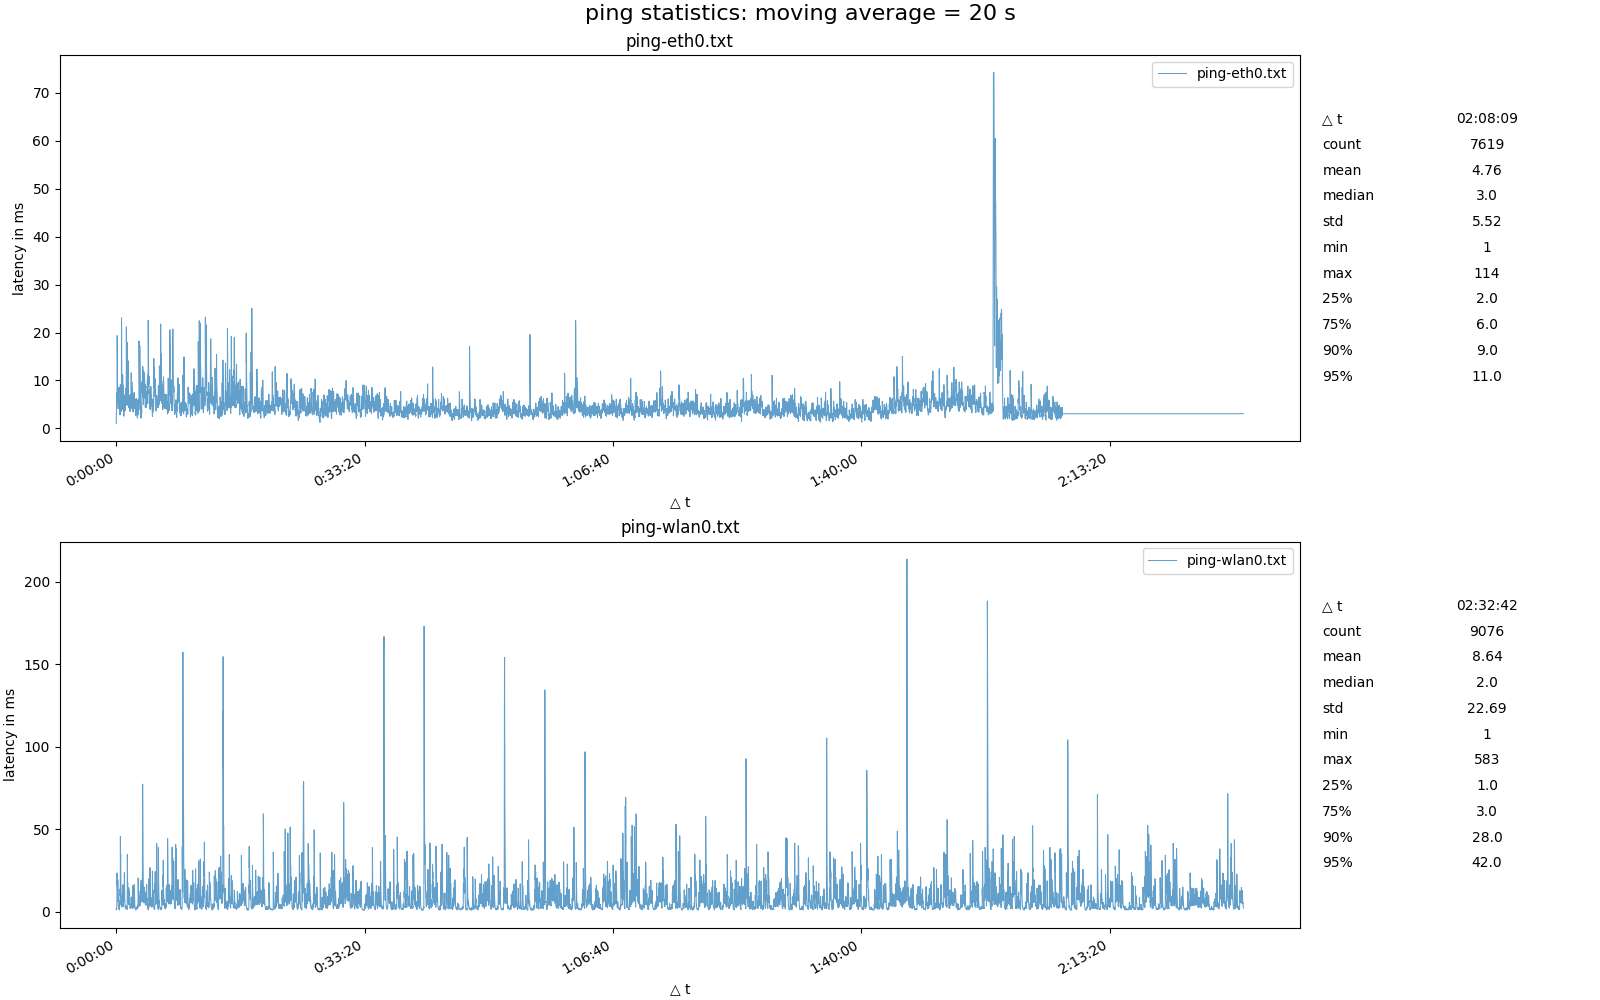
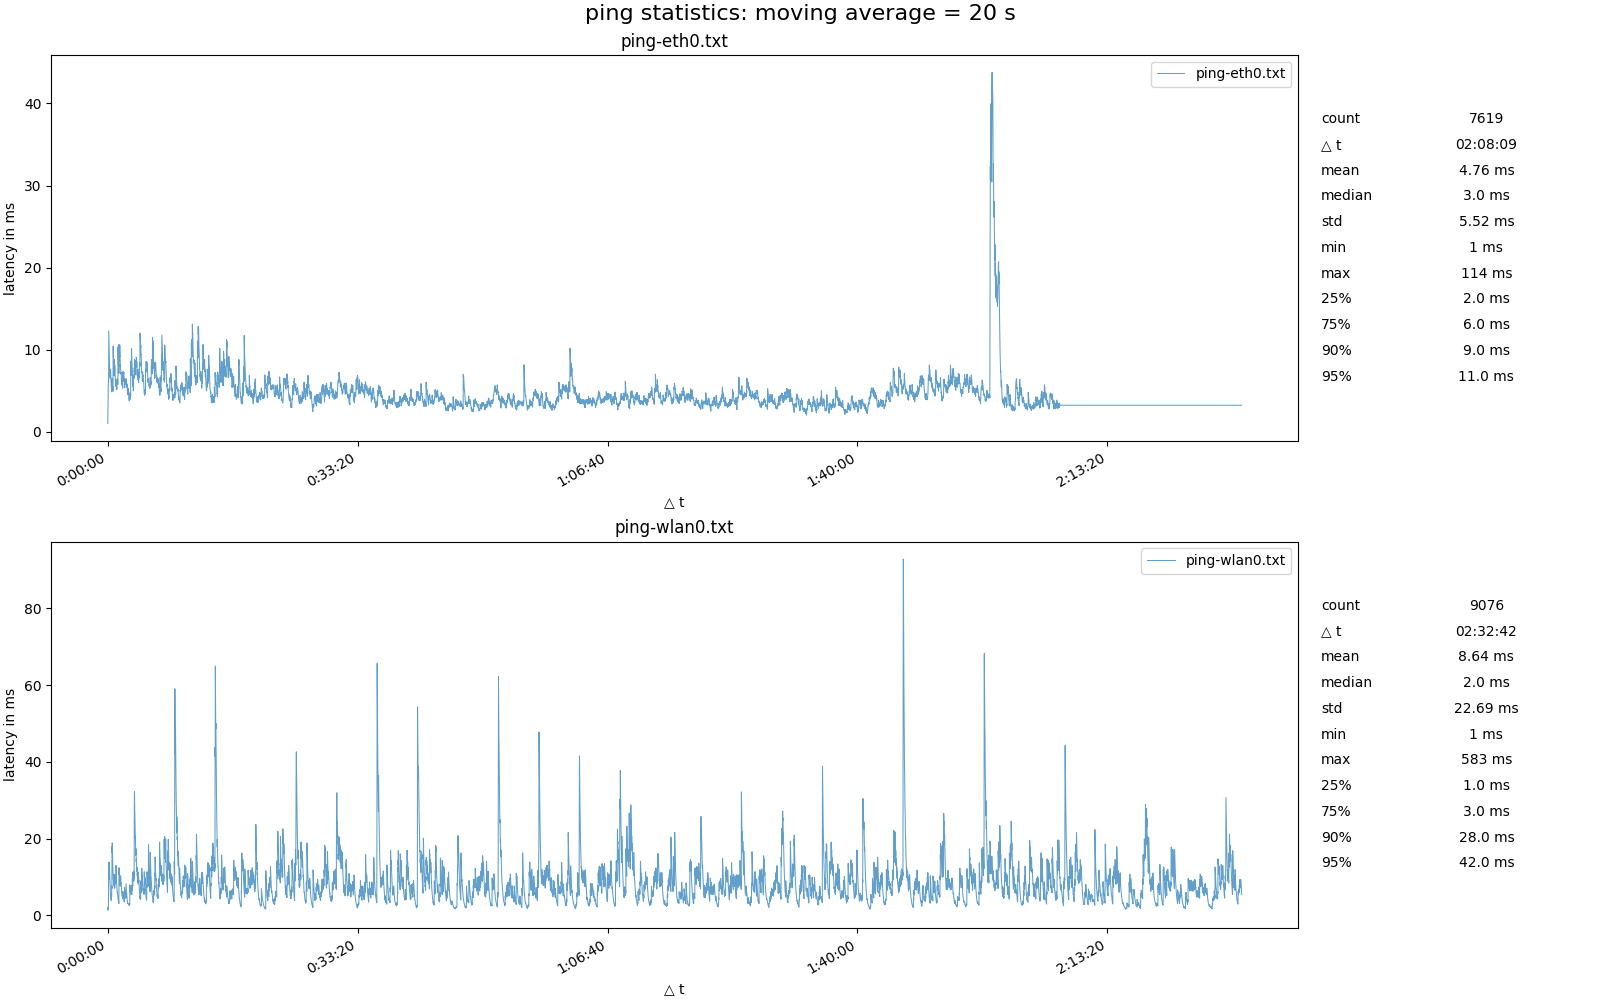
units in table

diff --git a/ping-analysis.py b/ping-analysis.py
@@ -12,11 +12,10 @@ from matplotlib import ticker
 
 # TODO: UNIX/Linux support
 # TODO: input validation, error checking
-# TODO: type functions
 
 def main():
     args = parse_args()
-    latencies = read_files(args.file)
+    latencies = files_to_dataframe(args.file)
 
     plots = []
     if args.plot in ["single", "both"]:
@@ -65,7 +64,7 @@ def parse_args() -> argparse.Namespace:
     )
     return parser.parse_args()
 
-def read_files(files: list[argparse.FileType]) -> pd.DataFrame:
+def files_to_dataframe(files: list[argparse.FileType]) -> pd.DataFrame:
     data = {}
     index = []
     
@@ -113,23 +112,23 @@ def describe(df: pd.DataFrame, include = 'all') -> pd.DataFrame:
     desc = {}
     for col in cols: 
         desc[col] = {
+            "count": str(df[col].count()),
             "△ t": str(df[col].last_valid_index()).split( )[-1],
-            "count": df[col].count(),
-            "mean": df[col].mean(skipna = True).round(2),
-            "median": df[col].median(skipna=True),
-            "std": df[col].std(skipna=True).round(2),
-            "min": df[col].min(skipna=True),
-            "max": df[col].max(skipna=True),
-            "25%": df[col].quantile(.25),
-            "75%": df[col].quantile(.75),
-            "90%": df[col].quantile(.9),
-            "95%": df[col].quantile(.95),
+            "mean": f"{df[col].mean(skipna = True).round(2)} ms",
+            "median": f"{df[col].median(skipna=True)} ms",
+            "std": f"{df[col].std(skipna=True).round(2)} ms",
+            "min": f"{df[col].min(skipna=True)} ms",
+            "max": f"{df[col].max(skipna=True)} ms",
+            "25%": f"{df[col].quantile(.25)} ms",
+            "75%": f"{df[col].quantile(.75)} ms",
+            "90%": f"{df[col].quantile(.9)} ms",
+            "95%": f"{df[col].quantile(.95)} ms",
         }
     return pd.DataFrame.from_dict(desc)
 
 def create_plot(latencies: pd.DataFrame, ewm_window: int = 20, plots: str = "single") -> plt:
+    # TODO: dont plot NaN values as 0
     desc = describe(latencies)
-    cols = list(latencies.columns.values)
 
     if plots == "multi":
         n = latencies.shape[1]
@@ -146,12 +145,15 @@ def create_plot(latencies: pd.DataFrame, ewm_window: int = 20, plots: str = "sin
     fig.suptitle(f"ping statistics: moving average = {ewm_window} s", fontsize = 16)
     xformatter = ticker.FuncFormatter(timeTicks)
 
+    linewidth = 0.75
+
     # single chart
     if n == 1: 
-        latencies.ewm(span = ewm_window).mean().plot(
+        latencies.ewm(span = ewm_window, ignore_na = True).mean().plot(
             ax = axes[0], 
             alpha = 0.7,
-            linewidth = 0.75
+            linewidth = linewidth,
+
         )
         axes[0].set(xlabel = "△ t", ylabel = "latency in ms")
         axes[0].xaxis.set_major_formatter(xformatter)
@@ -169,11 +171,12 @@ def create_plot(latencies: pd.DataFrame, ewm_window: int = 20, plots: str = "sin
         axes[1].axis("off")
     # multiple charts
     else: 
+        cols = list(latencies.columns.values)
         for i, col in enumerate(cols):
-            latencies[col].ewm(span = 5).mean().plot(
+            latencies[col].ewm(span = ewm_window, ignore_na = True).mean().plot(
                 ax = axes[i, 0], 
                 alpha = 0.7, 
-                linewidth = 0.75
+                linewidth = linewidth
             )
             axes[i, 0].xaxis.set_major_formatter(xformatter)
             axes[i, 0].set(xlabel = "△ t", ylabel = "latency in ms", title = col)

diff --git a/README.md b/README.md
@@ -26,7 +26,7 @@ A simple script to analyze and display ping statistics from one or more ping tra
 - Stop the transcript with `Stop-Transcript` or close the powershell window
 
 ## Example
-Comparing a powerline ehternet adapter to wifi - seems to be working surprisingly well
+Comparing a powerline ehternet adapter to wifi - powerline seems to be working surprisingly well
 
     python3 .\ping-analysis.py .\example\ping-eth0.txt .\example\ping-wlan0.txt -p both -o .\example\single.png .\example\multi.png
 
